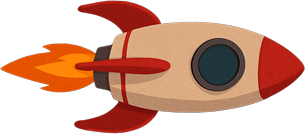
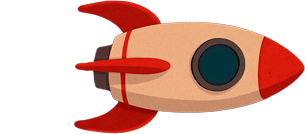
add rocket animation

diff --git a/src/entities/rocket/ui/RocketView.tsx b/src/entities/rocket/ui/RocketView.tsx
@@ -1,7 +1,7 @@
 'use client'
 import { Sprite, Graphics, Container } from '@pixi/react'
 import { Rocket } from '../model/Rocket'
-import { useCallback } from 'react'
+import { useCallback, useState, useEffect } from 'react'
 import { COLLISION_RADIUS_MULTIPLIER, COLLISION_OFFSET_X } from '@/shared/constants'
 
 interface Props {
@@ -9,7 +9,29 @@ interface Props {
   image: string
 }
 
+const FIRE_ANIMATION_FRAMES = [
+  '/rocket-fire-1.png',
+  '/rocket-fire-2.png',
+  '/rocket-fire-3.png',
+  '/rocket-fire-4.png',
+];
+
+const ANIMATION_SPEED = 100; // миллисекунды между кадрами
+
 export function RocketView({ rocket, image }: Props) {
+  const [fireFrame, setFireFrame] = useState(0);
+
+  // Анимация огня
+  useEffect(() => {
+    if (!rocket.isMovingForward) return;
+
+    const interval = setInterval(() => {
+      setFireFrame((prev) => (prev + 1) % FIRE_ANIMATION_FRAMES.length);
+    }, ANIMATION_SPEED);
+
+    return () => clearInterval(interval);
+  }, [rocket.isMovingForward]);
+
   // Функция для отрисовки отладочной рамки
   const drawDebugBorder = useCallback((g: any) => {
     g.clear();
@@ -30,6 +52,11 @@ export function RocketView({ rocket, image }: Props) {
     g.drawCircle(COLLISION_OFFSET_X, 0, collisionRadius);
   }, [rocket.width, rocket.height]);
 
+  // Определяем какой спрайт использовать
+  const rocketImage = rocket.isMovingForward 
+    ? FIRE_ANIMATION_FRAMES[fireFrame]
+    : image;
+
   return (
     <Container
       x={rocket.x}
@@ -41,7 +68,7 @@ export function RocketView({ rocket, image }: Props) {
       {/* <Graphics draw={drawDebugBorder} /> */}
       
       <Sprite
-        image={image}
+        image={rocketImage}
         width={rocket.width}
         height={rocket.height}
         anchor={0.5}

diff --git a/src/entities/rocket/model/Rocket.ts b/src/entities/rocket/model/Rocket.ts
@@ -6,6 +6,7 @@ export class Rocket {
   angle: number
   speed: number
   health: number
+  isMovingForward: boolean
 
   constructor(x: number, y: number, initialAngle: number = 0) {
     this.x = x
@@ -15,6 +16,7 @@ export class Rocket {
     this.angle = initialAngle
     this.speed = 2
     this.health = 100
+    this.isMovingForward = false
   }
 
   rotateLeft() {
@@ -26,11 +28,13 @@ export class Rocket {
   }
 
   moveForward() {
+    this.isMovingForward = true
     this.x += Math.cos(this.angle * (Math.PI / 180)) * this.speed
     this.y += Math.sin(this.angle * (Math.PI / 180)) * this.speed
   }
 
   moveBackward() {
+    this.isMovingForward = false
     this.x -= Math.cos(this.angle * (Math.PI / 180)) * this.speed
     this.y -= Math.sin(this.angle * (Math.PI / 180)) * this.speed
   }
@@ -46,5 +50,9 @@ export class Rocket {
 
   takeDamage(amount: number) {
     this.health = Math.max(0, this.health - amount)
+  }
+
+  stopMoving() {
+    this.isMovingForward = false
   }
 }

diff --git a/src/features/game-loop/useGameLoop.ts b/src/features/game-loop/useGameLoop.ts
@@ -47,10 +47,13 @@ export function useGameLoop({
 
       if (keys.up) {
         velocity.current = Math.min(maxSpeed, velocity.current + 0.1)
+        r.isMovingForward = true
       } else if (keys.down) {
         velocity.current = Math.max(0, velocity.current - 0.2)
+        r.isMovingForward = false
       } else {
         velocity.current = Math.max(0, velocity.current - 0.05)
+        r.isMovingForward = false
       }
 
       const rad = r.angle * (Math.PI / 180)
